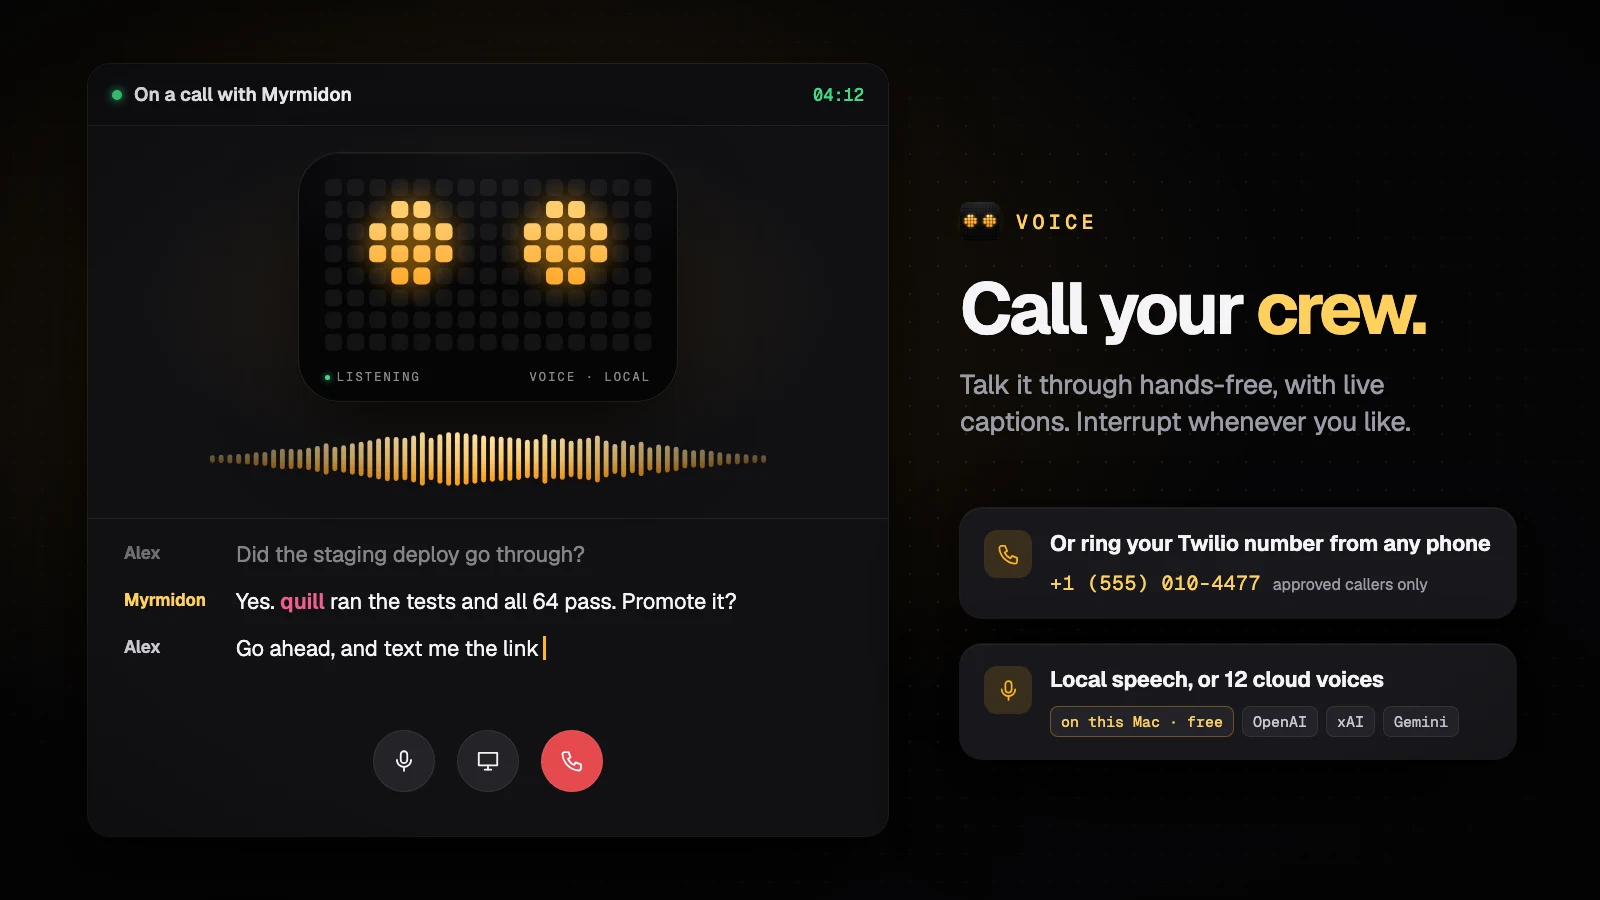
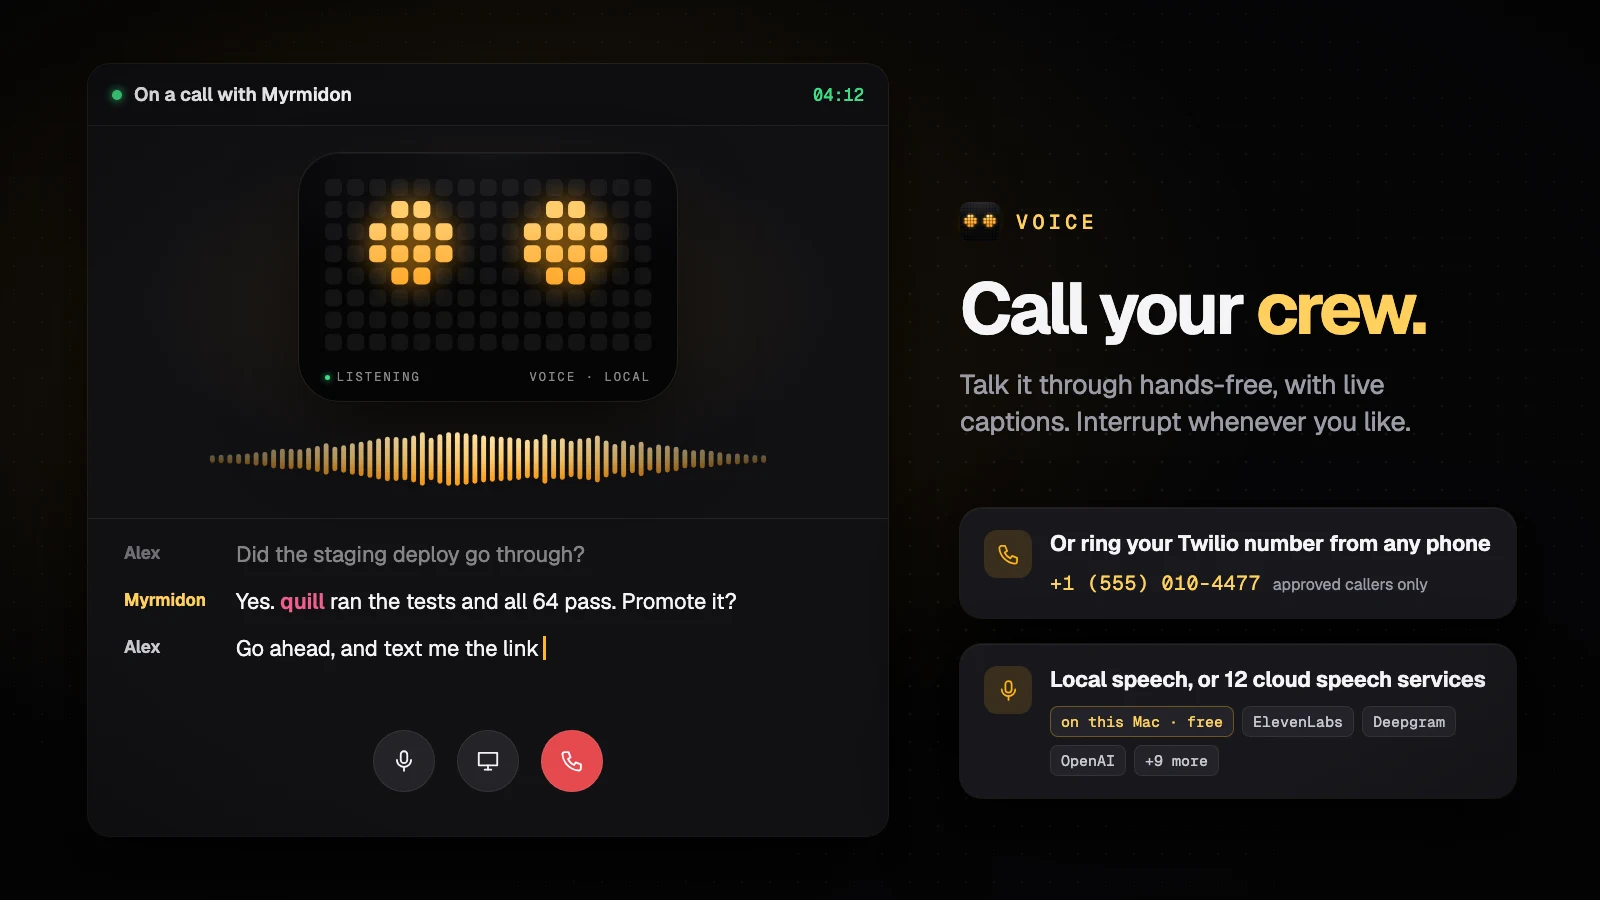
Show true skill counts and speech services on the posters
The skills poster gave OpenAI 64 and Anthropic 38 skills and the omp
registry 540, where the catalogs hold 44 and 19 and the registry is
empty; the voice poster named xAI and Gemini as cloud voices, which
Myrmidon does not speak through. It now lists ElevenLabs, Deepgram,
OpenAI and nine more of the 12 speech services it supports.

Changed region(s): [[0.5938, 0.84, 0.9062, 0.9022], [0.7812, 0.7467, 0.9375, 0.8089]]

diff --git a/media/film/src/stills/Voice.tsx b/media/film/src/stills/Voice.tsx
@@ -159,12 +159,13 @@ export function FeatureVoice() {
         <span style={{ fontFamily: MONO, fontSize: 20, color: C.wink, letterSpacing: '0.02em' }}>+1 (555) 010-4477</span>
         <span style={{ fontSize: 16, color: C.label3, marginLeft: 12 }}>approved callers only</span>
       </SideCard>
-      <SideCard top={644} icon="mic" title="Local speech, or 12 cloud voices">
+      <SideCard top={644} icon="mic" title="Local speech, or 12 cloud speech services">
         <div style={{ display: 'flex', gap: 8, flexWrap: 'wrap' }}>
           <span style={{ ...chip, color: C.wink, boxShadow: 'inset 0 0 0 1px rgba(255,179,26,0.35)' }}>on this Mac · free</span>
+          <span style={chip}>ElevenLabs</span>
+          <span style={chip}>Deepgram</span>
           <span style={chip}>OpenAI</span>
-          <span style={chip}>xAI</span>
-          <span style={chip}>Gemini</span>
+          <span style={chip}>+9 more</span>
         </div>
       </SideCard>
     </Poster>

diff --git a/media/film/src/stills/Skills.tsx b/media/film/src/stills/Skills.tsx
@@ -7,10 +7,10 @@ import { Btn, Code, Headline, Panel, PanelHead, Poster } from './kit.tsx'
 type Source = [string, IconName, string, boolean?]
 const SOURCES: Source[] = [
   ['All sources', 'layers', ''],
-  ['OpenAI', 'globe', '64'],
-  ['Anthropic', 'globe', '38'],
-  ['skills.sh', 'search', '2.1k', true],
-  ['Skillshare', 'globe', '540'],
+  ['OpenAI', 'globe', '44'],
+  ['Anthropic', 'globe', '19'],
+  ['skills.sh', 'search', '', true],
+  ['Skillshare', 'globe', ''],
 ]
 const IMPORTS: Source[] = [
   ['Claude Code', 'terminal', '12'],
